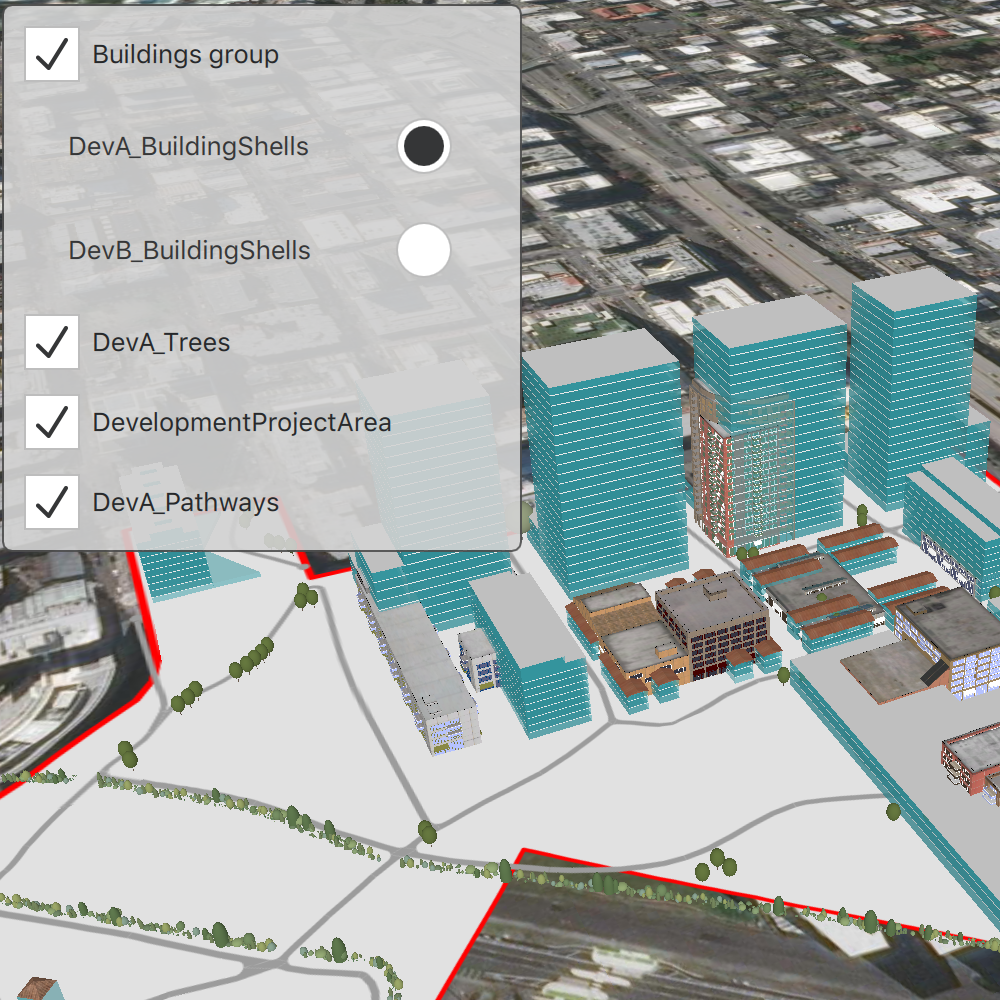
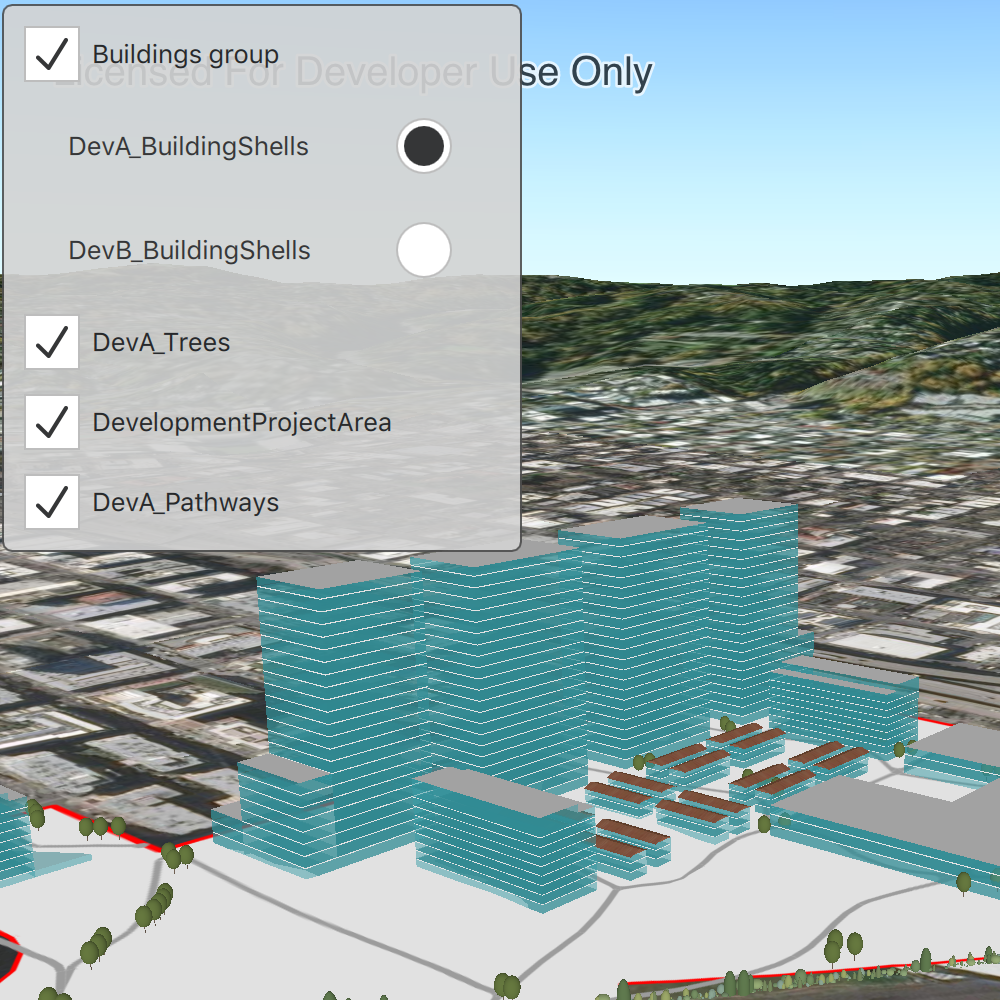
set group visibility mode exclusive; check boxes now reflect initial layer visibility

diff --git a/ArcGISRuntimeSDKQt_QMLSamples/Layers/GroupLayers/GroupLayers.qml b/ArcGISRuntimeSDKQt_QMLSamples/Layers/GroupLayers/GroupLayers.qml
@@ -43,6 +43,7 @@ Rectangle {
             GroupLayer {
                 id: gl
                 name: "Buildings group"
+                visibilityMode: "GroupVisibilityModeExclusive"
 
                 ArcGISSceneLayer {
                     url: "https://tiles.arcgis.com/tiles/P3ePLMYs2RVChkJx/arcgis/rest/services/DevA_BuildingShells/SceneServer"
@@ -138,7 +139,7 @@ Rectangle {
                     CheckBox {
                         id: parentBox
                         text: name
-                        checked: true
+                        checked: layerVisible
                         onCheckedChanged: layerVisible = checked
                     }
 
@@ -161,7 +162,7 @@ Rectangle {
                 id: layerDelegate
                 CheckBox {
                     text: name
-                    checked: true
+                    checked: layerVisible
                     onCheckedChanged: layerVisible = checked
                 }
             }

diff --git a/ArcGISRuntimeSDKQt_CppSamples/Layers/GroupLayers/GroupLayers.qml b/ArcGISRuntimeSDKQt_CppSamples/Layers/GroupLayers/GroupLayers.qml
@@ -78,7 +78,7 @@ Item {
                     CheckBox {
                         id: parentBox
                         text: name
-                        checked: true
+                        checked: layerVisible
                         onCheckedChanged: layerVisible = checked
                     }
 
@@ -100,7 +100,7 @@ Item {
                 id: layerDelegate
                 CheckBox {
                     text: name
-                    checked: true
+                    checked: layerVisible
                     onCheckedChanged: {
                         layerVisible = checked;
                     }

diff --git a/ArcGISRuntimeSDKQt_CppSamples/Layers/GroupLayers/GroupLayers.cpp b/ArcGISRuntimeSDKQt_CppSamples/Layers/GroupLayers/GroupLayers.cpp
@@ -48,6 +48,7 @@ GroupLayers::GroupLayers(QObject* parent /* = nullptr */):
   ArcGISSceneLayer* layer2 = new ArcGISSceneLayer(QUrl("https://tiles.arcgis.com/tiles/P3ePLMYs2RVChkJx/arcgis/rest/services/DevB_BuildingShells/SceneServer"), this);
   GroupLayer* groupLayer = new GroupLayer(QList<Layer*>{layer1, layer2}, this);
   groupLayer->setName("Buildings group");
+  groupLayer->setVisibilityMode(GroupVisibilityMode::Exclusive);
 
   // Create additional layers
   ArcGISSceneLayer* layer3 = new ArcGISSceneLayer(QUrl("https://tiles.arcgis.com/tiles/P3ePLMYs2RVChkJx/arcgis/rest/services/DevA_Trees/SceneServer"), this);
